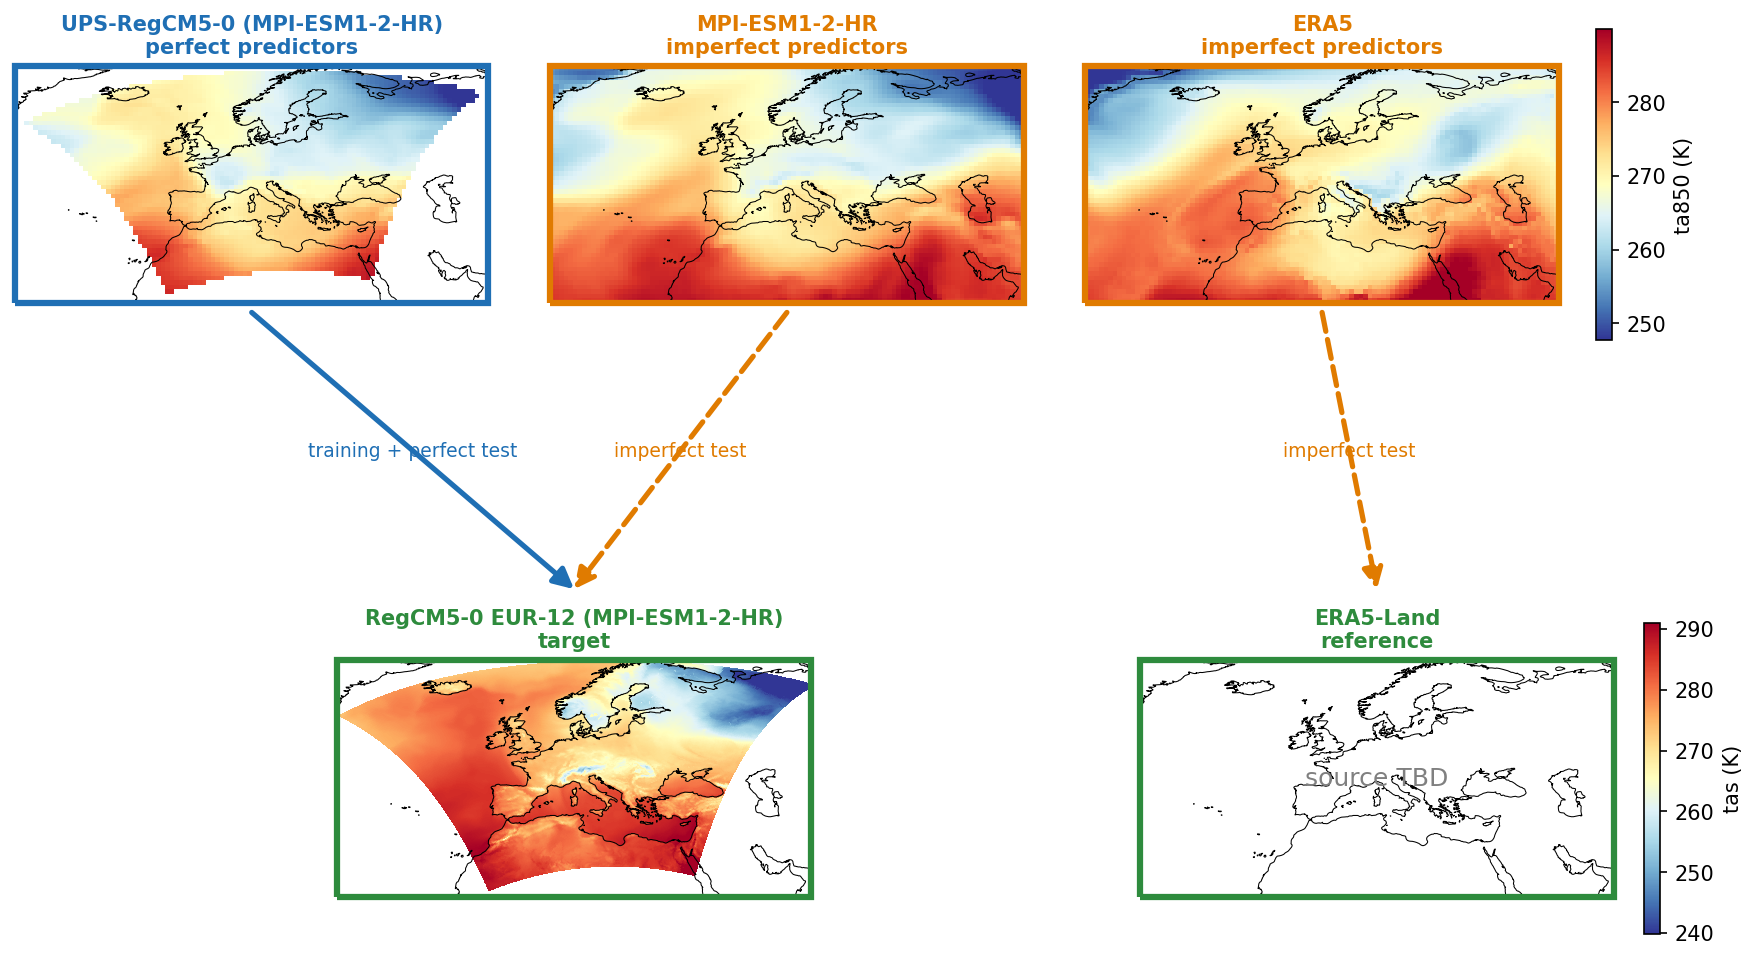
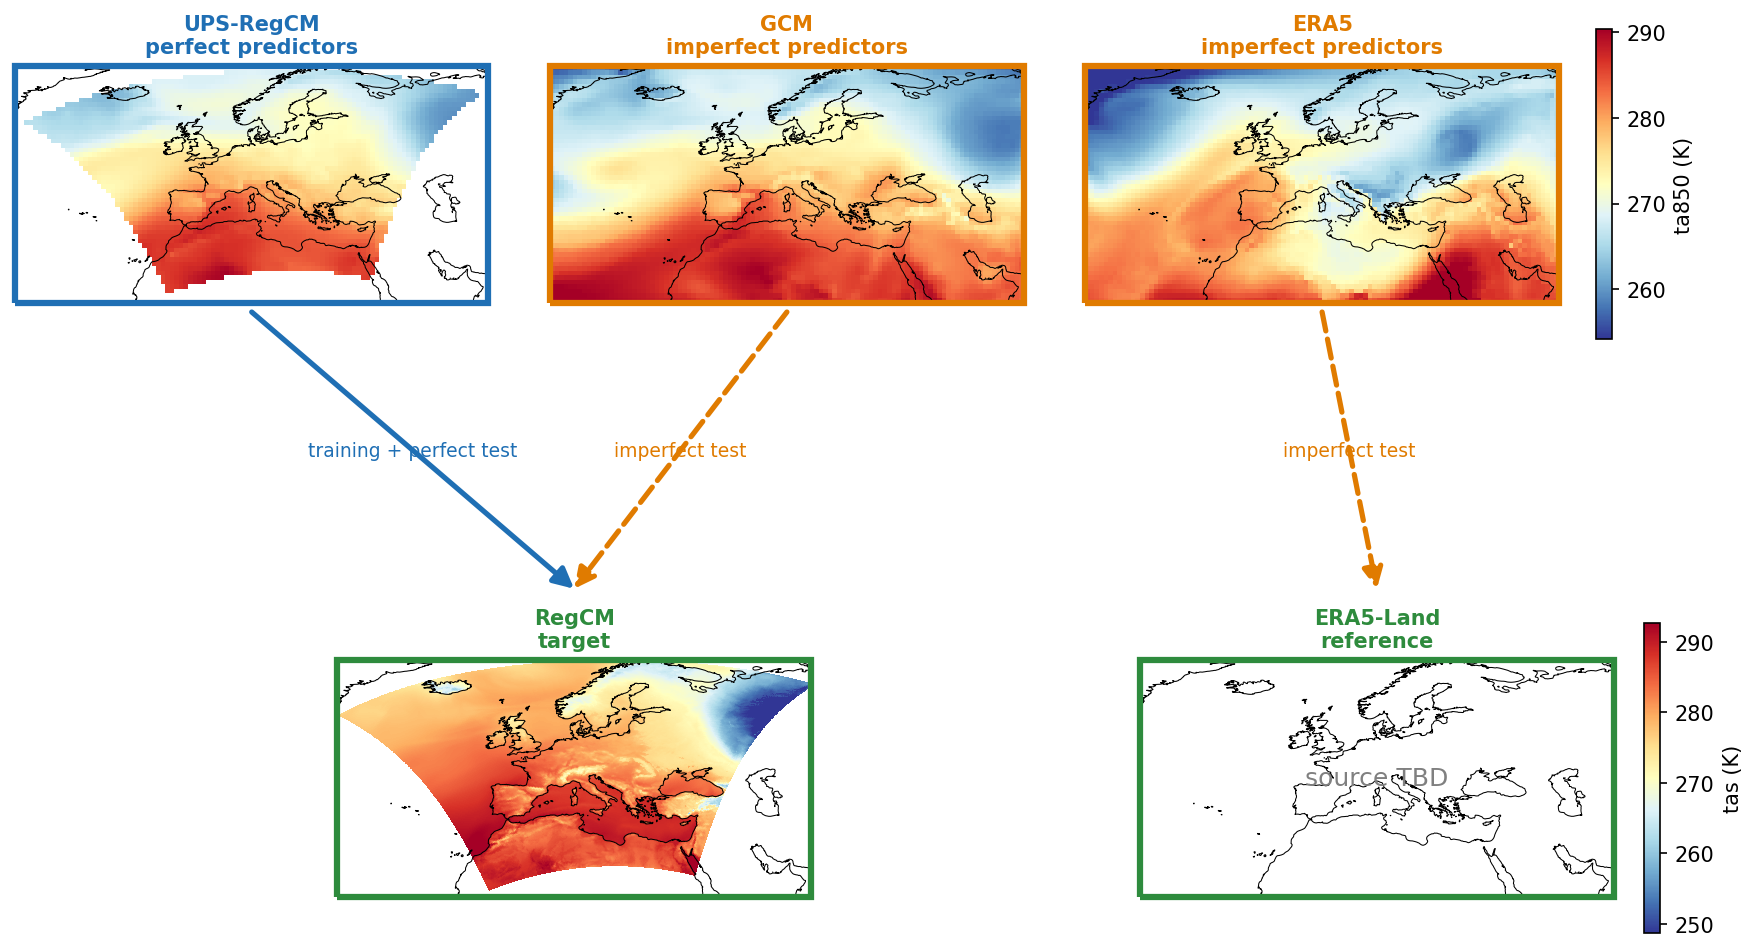
Data page figure: generic titles, EC-Earth3-Veg panels

diff --git a/docs/introduction/data.md b/docs/introduction/data.md
@@ -5,9 +5,10 @@ The benchmark combines five datasets: three sources of **predictors** on a commo
 
 ![Predictors and targets](../images/data_maps.png)
 
-*15 January 1995. Top: predictor `ta850` from RegCM5-0 upscaled to 1° (perfect), from the driving GCM and from ERA5 (imperfect).
-Bottom: target `tas` from RegCM5-0, and ERA5-Land. Blue: data used for training and for the perfect test; orange: imperfect test;
-green: ground truth.*
+*Top: predictor `ta850` from RegCM5-0 upscaled to 1° (perfect), from the driving GCM and from ERA5 (imperfect). Bottom: target
+`tas` from RegCM5-0, and ERA5-Land. Blue: data used for training and for the perfect test; orange: imperfect test; green: ground
+truth. For illustration, the GCM-driven panels show the EC-Earth3-Veg simulation on 15 January 2050 and the ERA5 panel shows
+15 January 1995.*
 
 ## Predictors
 
